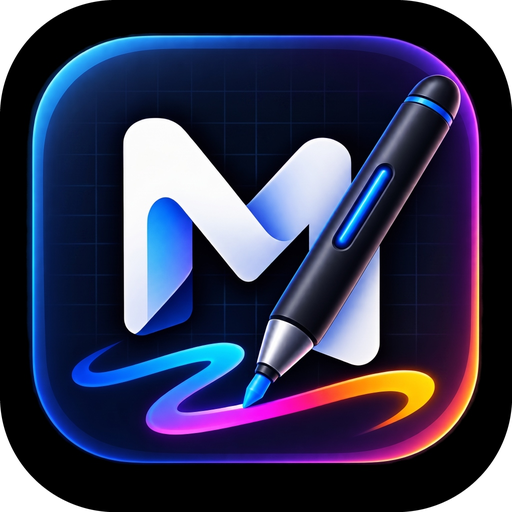
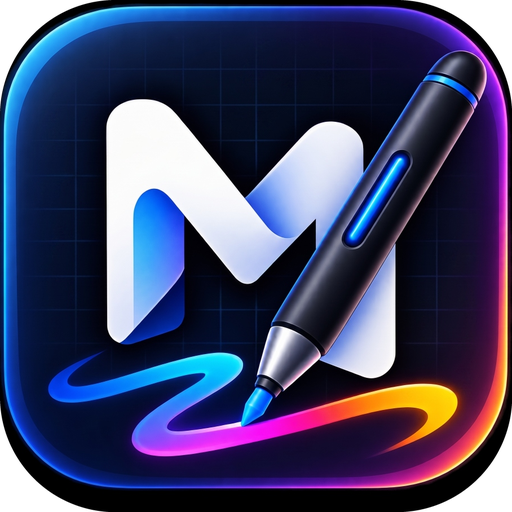
Fix squircle crop to eliminate black borders

diff --git a/website/index.html b/website/index.html
@@ -18,11 +18,11 @@
   <link rel="alternate" hreflang="x-default" href="https://pen.maliyildirimtr.com/" />
 
   <!-- Favicon & Touch Icons -->
-  <link rel="icon" type="image/x-icon" href="favicon.ico?v=4" />
-  <link rel="icon" type="image/png" sizes="32x32" href="assets/favicon-32x32.png?v=4" />
-  <link rel="icon" type="image/png" sizes="16x16" href="assets/favicon-16x16.png?v=4" />
-  <link rel="apple-touch-icon" sizes="180x180" href="assets/apple-touch-icon.png?v=4" />
-  <link rel="image_src" href="https://pen.maliyildirimtr.com/assets/icon.png?v=4" />
+  <link rel="icon" type="image/x-icon" href="favicon.ico?v=5" />
+  <link rel="icon" type="image/png" sizes="32x32" href="assets/favicon-32x32.png?v=5" />
+  <link rel="icon" type="image/png" sizes="16x16" href="assets/favicon-16x16.png?v=5" />
+  <link rel="apple-touch-icon" sizes="180x180" href="assets/apple-touch-icon.png?v=5" />
+  <link rel="image_src" href="https://pen.maliyildirimtr.com/assets/icon.png?v=5" />
 
   <!-- Google Search Thumbnail & OpenGraph Meta -->
   <meta name="thumbnail" content="https://pen.maliyildirimtr.com/assets/icon.png" />

diff --git a/website/setup.html b/website/setup.html
@@ -7,8 +7,8 @@
   <meta name="description" content="Step-by-step guide to install MaliPen screen annotation tool on macOS and Windows. Learn how to bypass security warnings and grant the required permissions." />
   <meta name="robots" content="index, follow" />
   <link rel="canonical" href="https://pen.maliyildirimtr.com/setup.html" />
-  <link rel="icon" type="image/png" href="assets/favicon-32x32.png?v=4" />
-  <link rel="apple-touch-icon" href="assets/apple-touch-icon.png?v=4" />
+  <link rel="icon" type="image/png" href="assets/favicon-32x32.png?v=5" />
+  <link rel="apple-touch-icon" href="assets/apple-touch-icon.png?v=5" />
   <link rel="preconnect" href="https://fonts.googleapis.com" />
   <link rel="preconnect" href="https://fonts.gstatic.com" crossorigin />
   <link href="https://fonts.googleapis.com/css2?family=Outfit:wght@300;400;500;600;700;800;900&family=Pacifico&family=JetBrains+Mono:wght@400;500;700&display=swap" rel="stylesheet" />

diff --git a/website/process_icon.py b/website/process_icon.py
@@ -5,13 +5,11 @@ def create_circular_icon(input_path, output_dir):
     # Open image and convert to RGBA
     img = Image.open(input_path).convert("RGBA")
     
+    # Crop the black padding (based on the provided image dimensions)
+    img = img.crop((58, 60, 966, 968))
+    
     # Ensure it's square
     size = min(img.size)
-    left = (img.width - size) / 2
-    top = (img.height - size) / 2
-    right = (img.width + size) / 2
-    bottom = (img.height + size) / 2
-    img = img.crop((left, top, right, bottom))
     
     # Create antialiased mask
     # We draw at 4x scale then downsample for smooth edges
